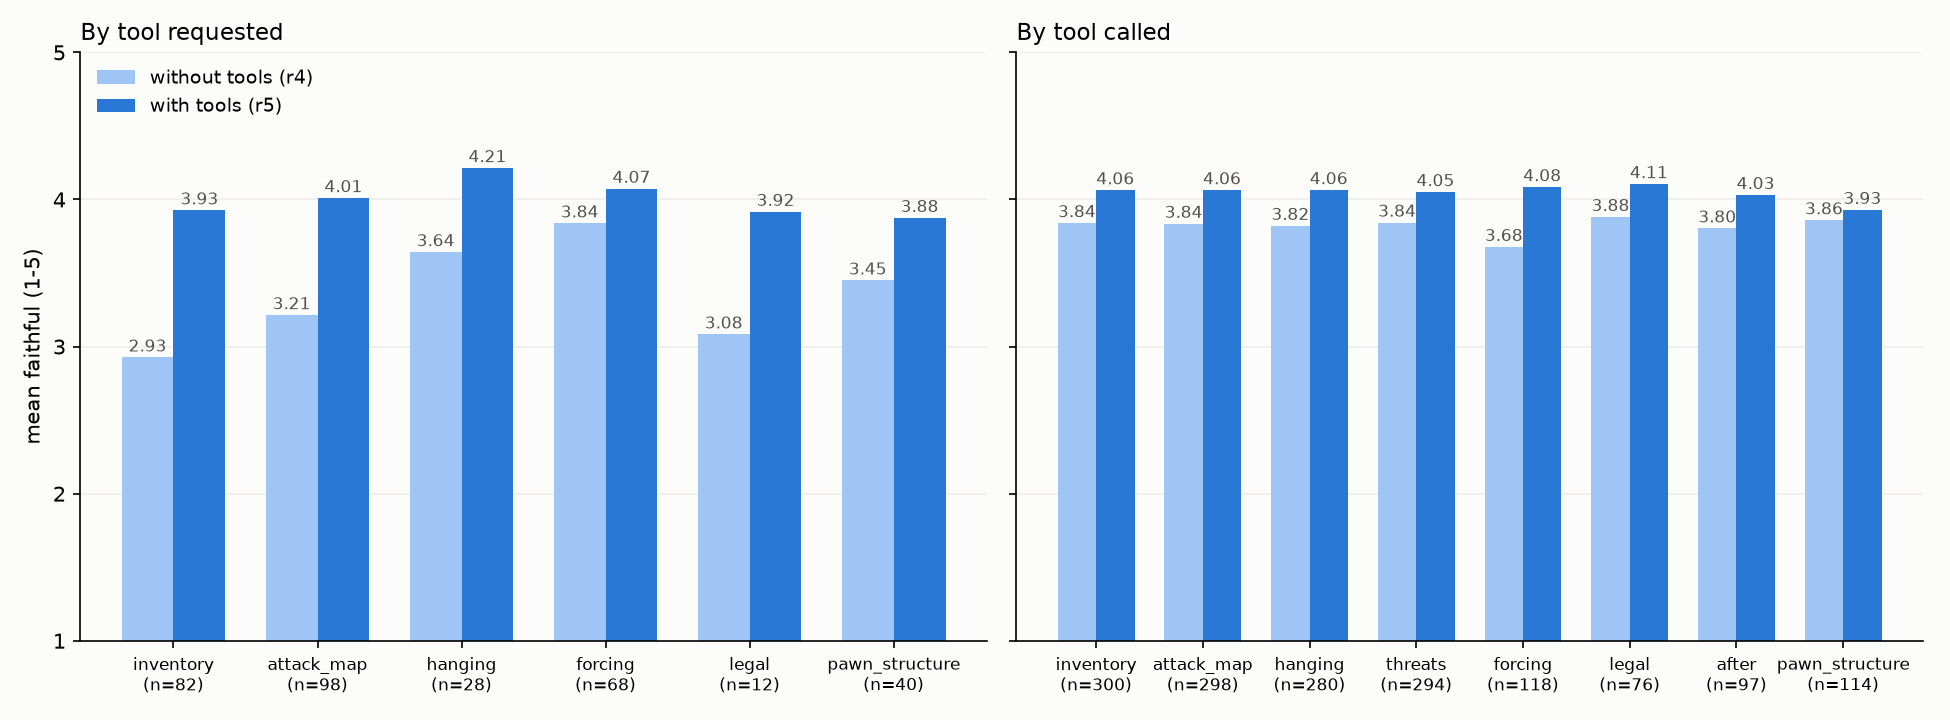
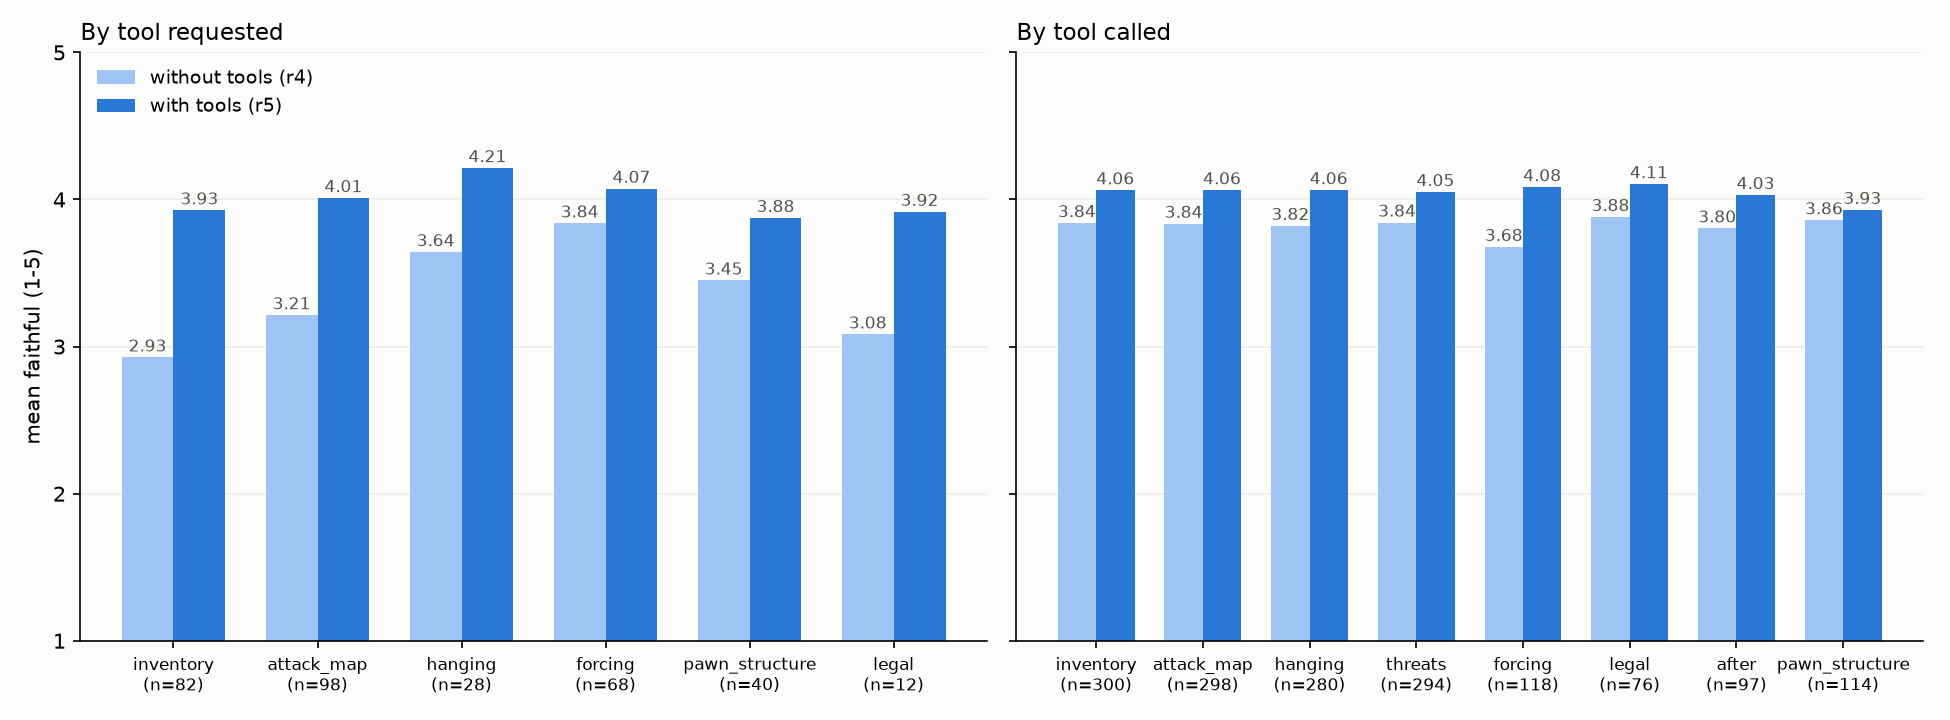
commentary_gen: consistent tool labels across round-5 and static-block charts
Claude-Session: https://claude.ai/code/session_01KQ9zSip1rrnxATMbAETd2e

diff --git a/commentary_gen/charts_static.py b/commentary_gen/charts_static.py
@@ -14,9 +14,9 @@ BG, BLUE, LIGHT, ORANGE, GRAY, INK = "#fcfcfb", "#2a78d6", "#9ec5f4", "#eb6834",
 r5 = {json.loads(l)["id"]: json.loads(l) for l in open(f"{STATIC}/judge_dev/scores.jsonl")}
 r4 = {json.loads(l)["id"]: json.loads(l) for l in open("runs/r4_best_lessons_think/judge_dev/coded.jsonl")}
 ids = sorted(r5)
-SEC = {"moved": "attack map", "inventory": "inventory", "hanging": "hanging scan", "forcing": "forcing list", "pawns": "pawn structure"}
+SEC = {"inventory": "inventory", "moved": "attack_map", "hanging": "hanging", "forcing": "forcing", "pawns": "pawn_structure"}
 WISH = {"moved": ("per-piece attack",), "inventory": ("piece inventory",), "hanging": ("hanging",),
-        "forcing": ("short forcing",), "pawns": ("pawn-structure", "file status")}
+        "forcing": ("short forcing",), "pawns": ("pawn-structure", "file status")}  # same mapping as charts_r5.py
 
 
 def used(i, s):

diff --git a/commentary_gen/charts_r5.py b/commentary_gen/charts_r5.py
@@ -33,7 +33,7 @@ def style(ax):
 
 # 1. requested x called x useful
 fig, (a, b) = plt.subplots(1, 2, figsize=(12, 4.6), facecolor=BG)
-tl = [t for t in TOOLS if t in WISH]
+tl = ["inventory", "attack_map", "hanging", "forcing", "pawn_structure", "legal"]
 x = list(range(len(tl)))
 tab = {}
 for t in tl:
